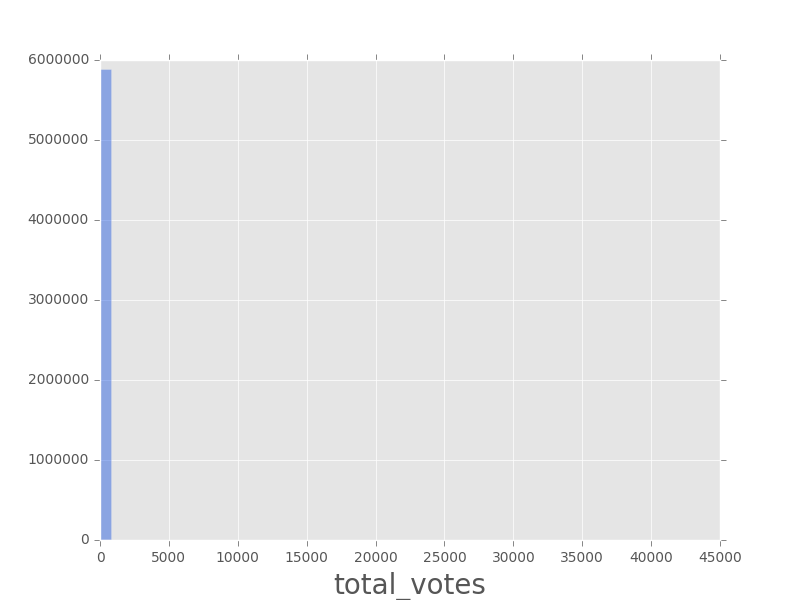
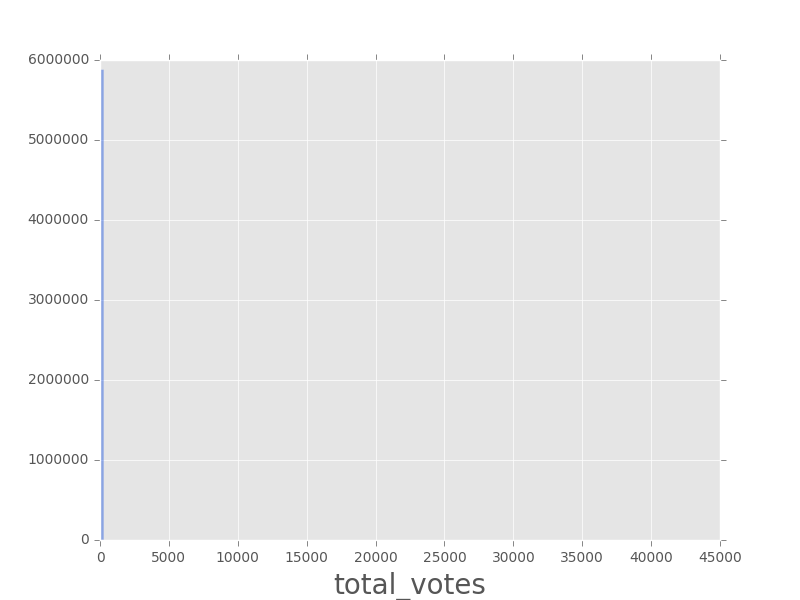
update Hists and Results again 2

Changed region(s): [[0.125, 0.12, 0.1562, 0.9]]

diff --git a/Hists_votes_dist.py b/Hists_votes_dist.py
@@ -79,7 +79,7 @@ print("star_rating complete")
 temp_votes = cover#.loc[lambda cover: cover['helpful_votes'] != 0]
 
 plt.figure(figsize=(8,6))
-ax = sns.distplot(temp_votes['helpful_votes'], color=color, kde=False)
+ax = sns.distplot(temp_votes['helpful_votes'], color=color, kde=False, bins=150)
 ax.yaxis.label.set_size(20)
 ax.xaxis.label.set_size(20)
 #plt.show()
@@ -90,7 +90,7 @@ print("helpful_votes complete")
 temp_votes = cover#.loc[lambda cover: cover['total_votes'] != 0]
 
 plt.figure(figsize=(8,6))
-ax = sns.distplot(temp_votes['total_votes'], color=color, kde=False)
+ax = sns.distplot(temp_votes['total_votes'], color=color, kde=False, bins=150)
 ax.yaxis.label.set_size(20)
 ax.xaxis.label.set_size(20)
 #plt.show()
